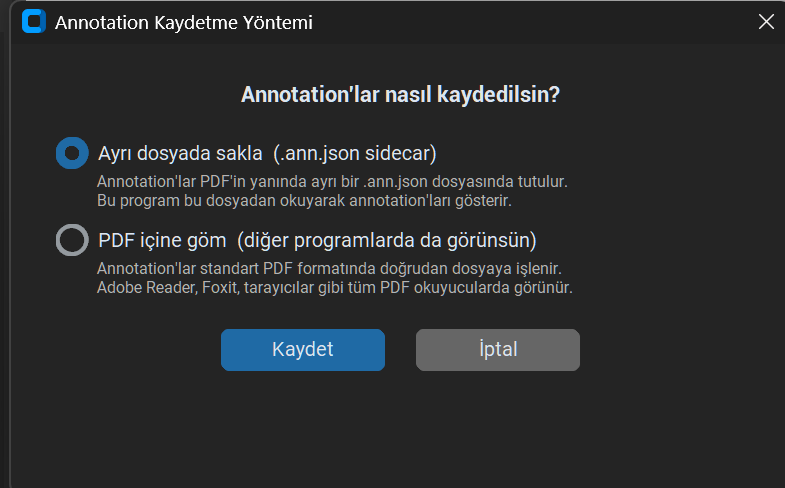
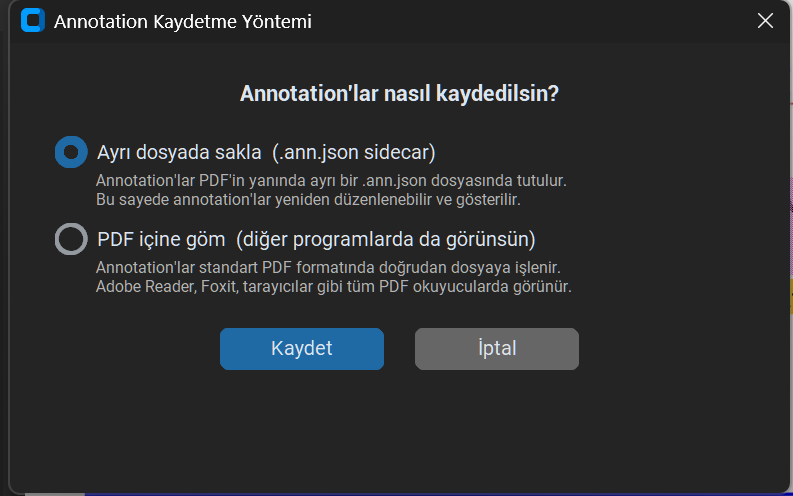
Screenshots from Application

diff --git a/pdf_view_file_ops.py b/pdf_view_file_ops.py
@@ -171,7 +171,7 @@ class FileOperationsMixin:
         ctk.CTkLabel(
             frame1,
             text="  Annotation'lar PDF'in yanında ayrı bir .ann.json dosyasında tutulur.\n"
-                 "  Bu program bu dosyadan okuyarak annotation'ları gösterir.",
+                 "  Bu sayede annotation'lar yeniden düzenlenebilir ve gösterilir.",
             font=ctk.CTkFont(size=11),
             text_color="gray70",
             justify="left"